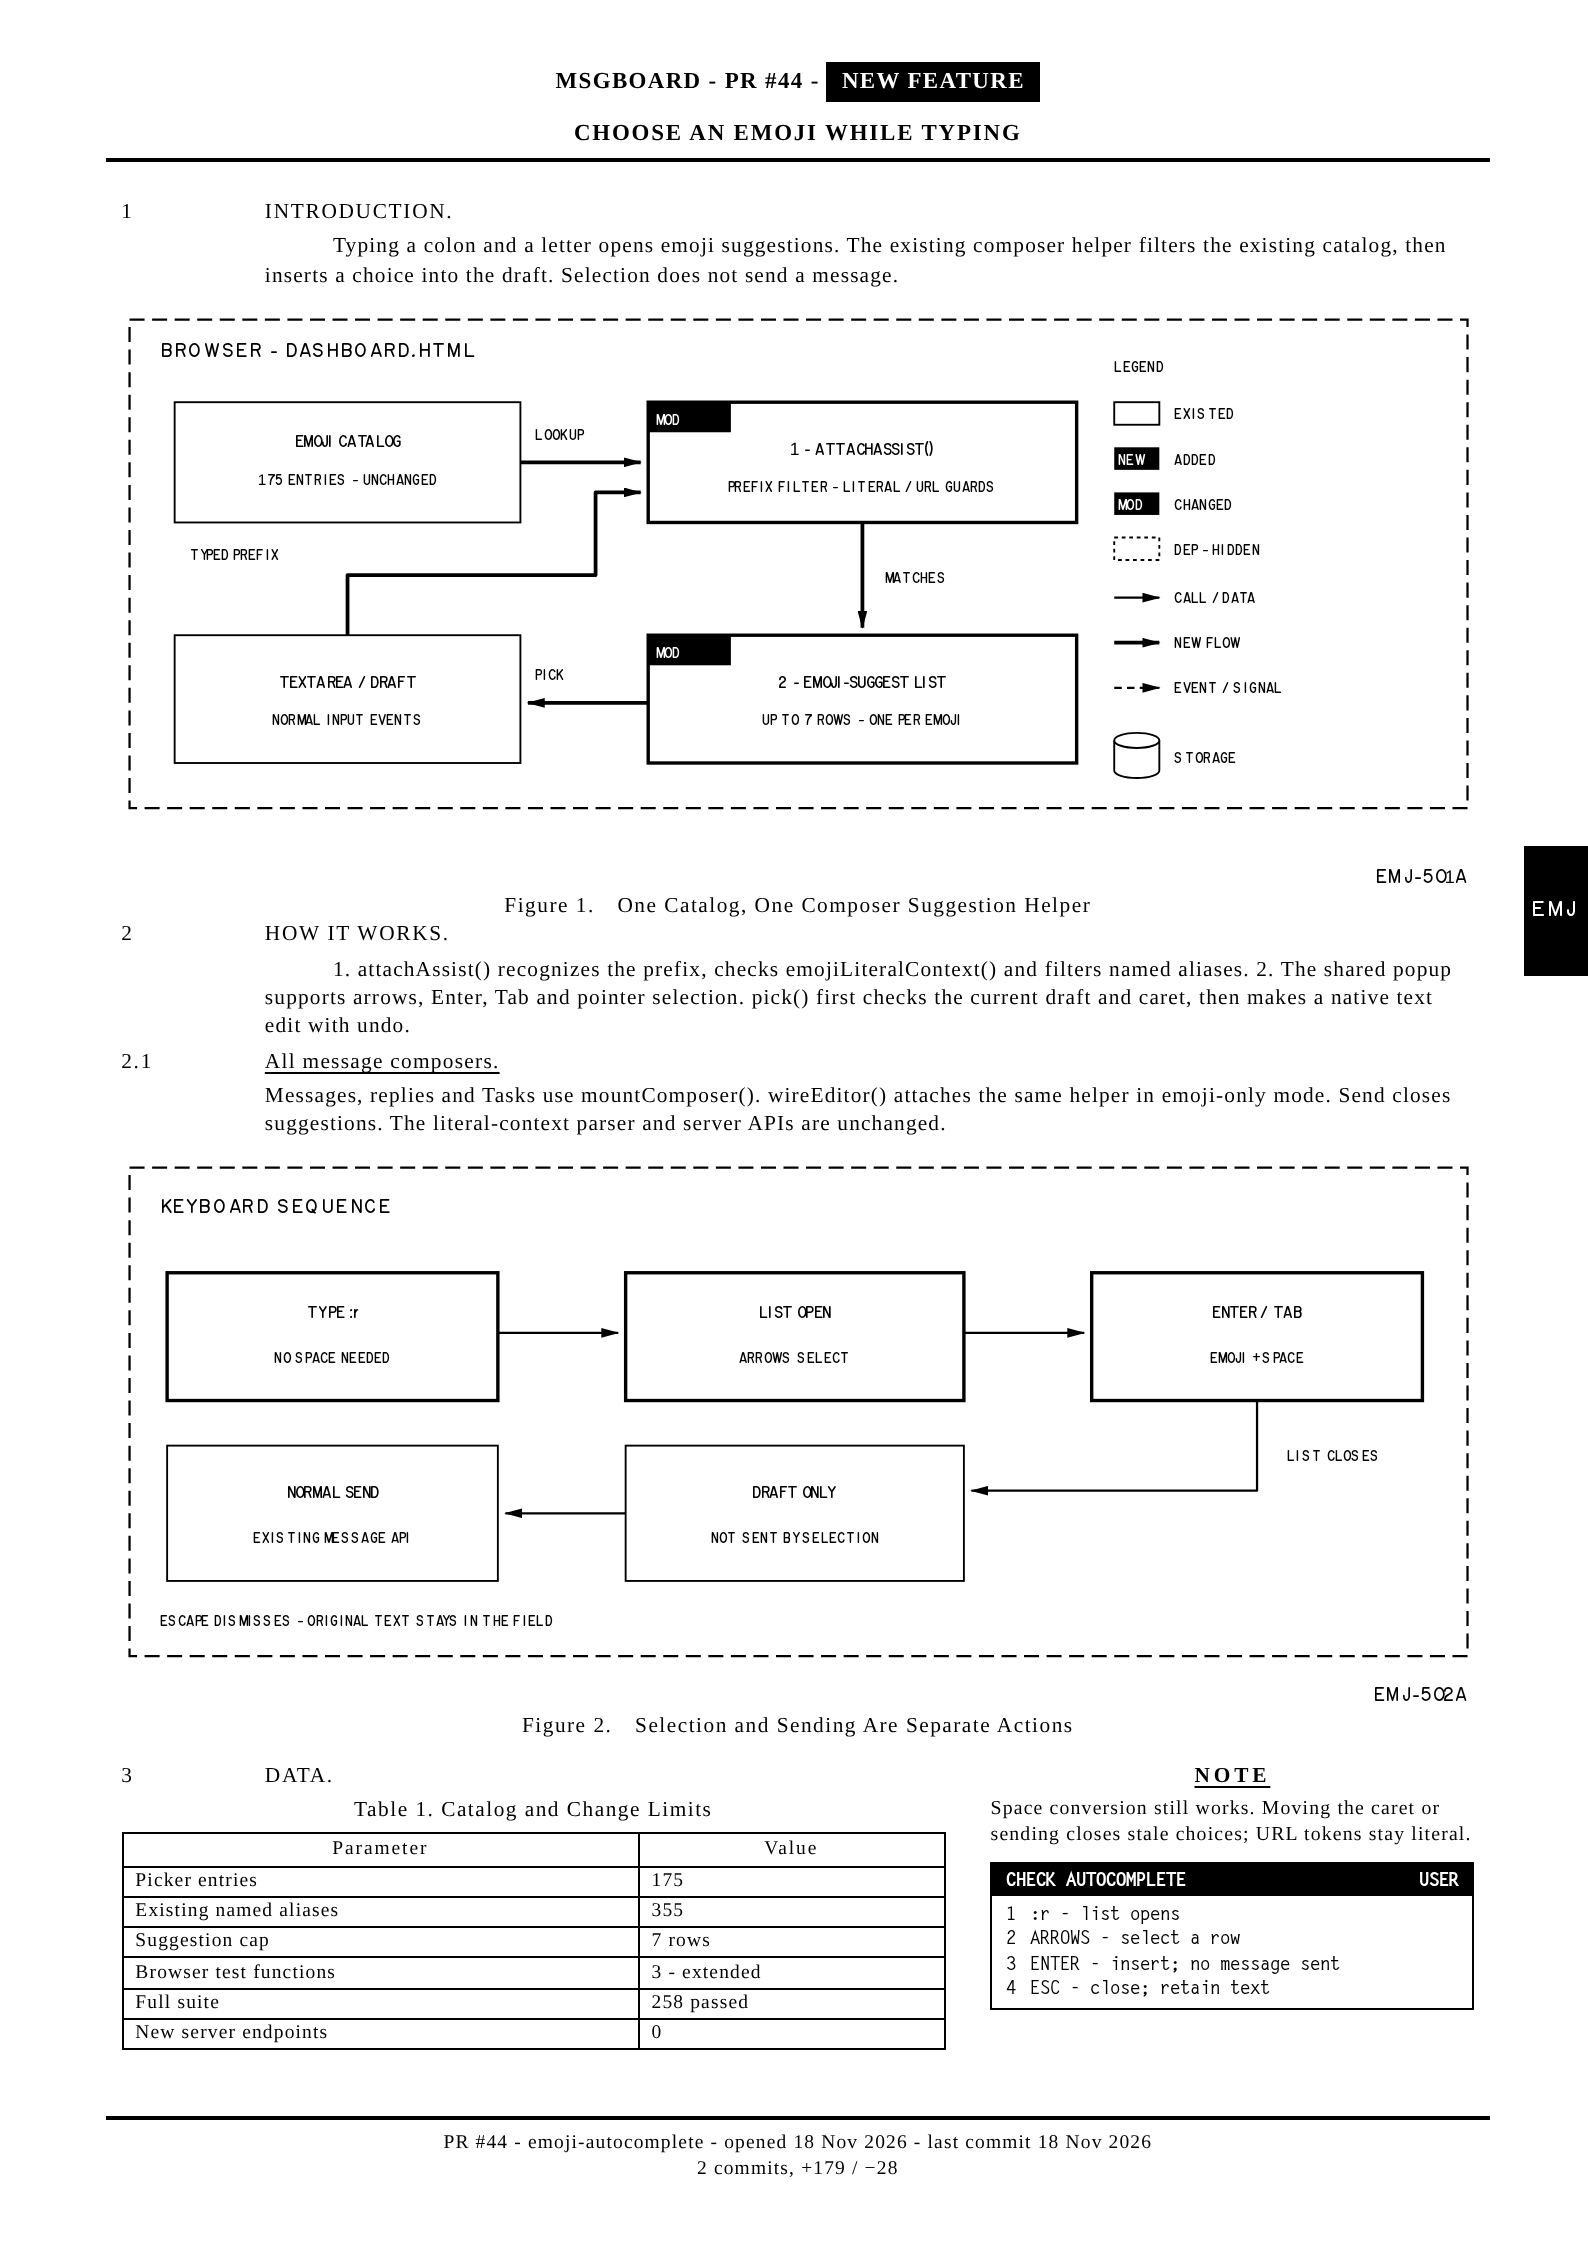
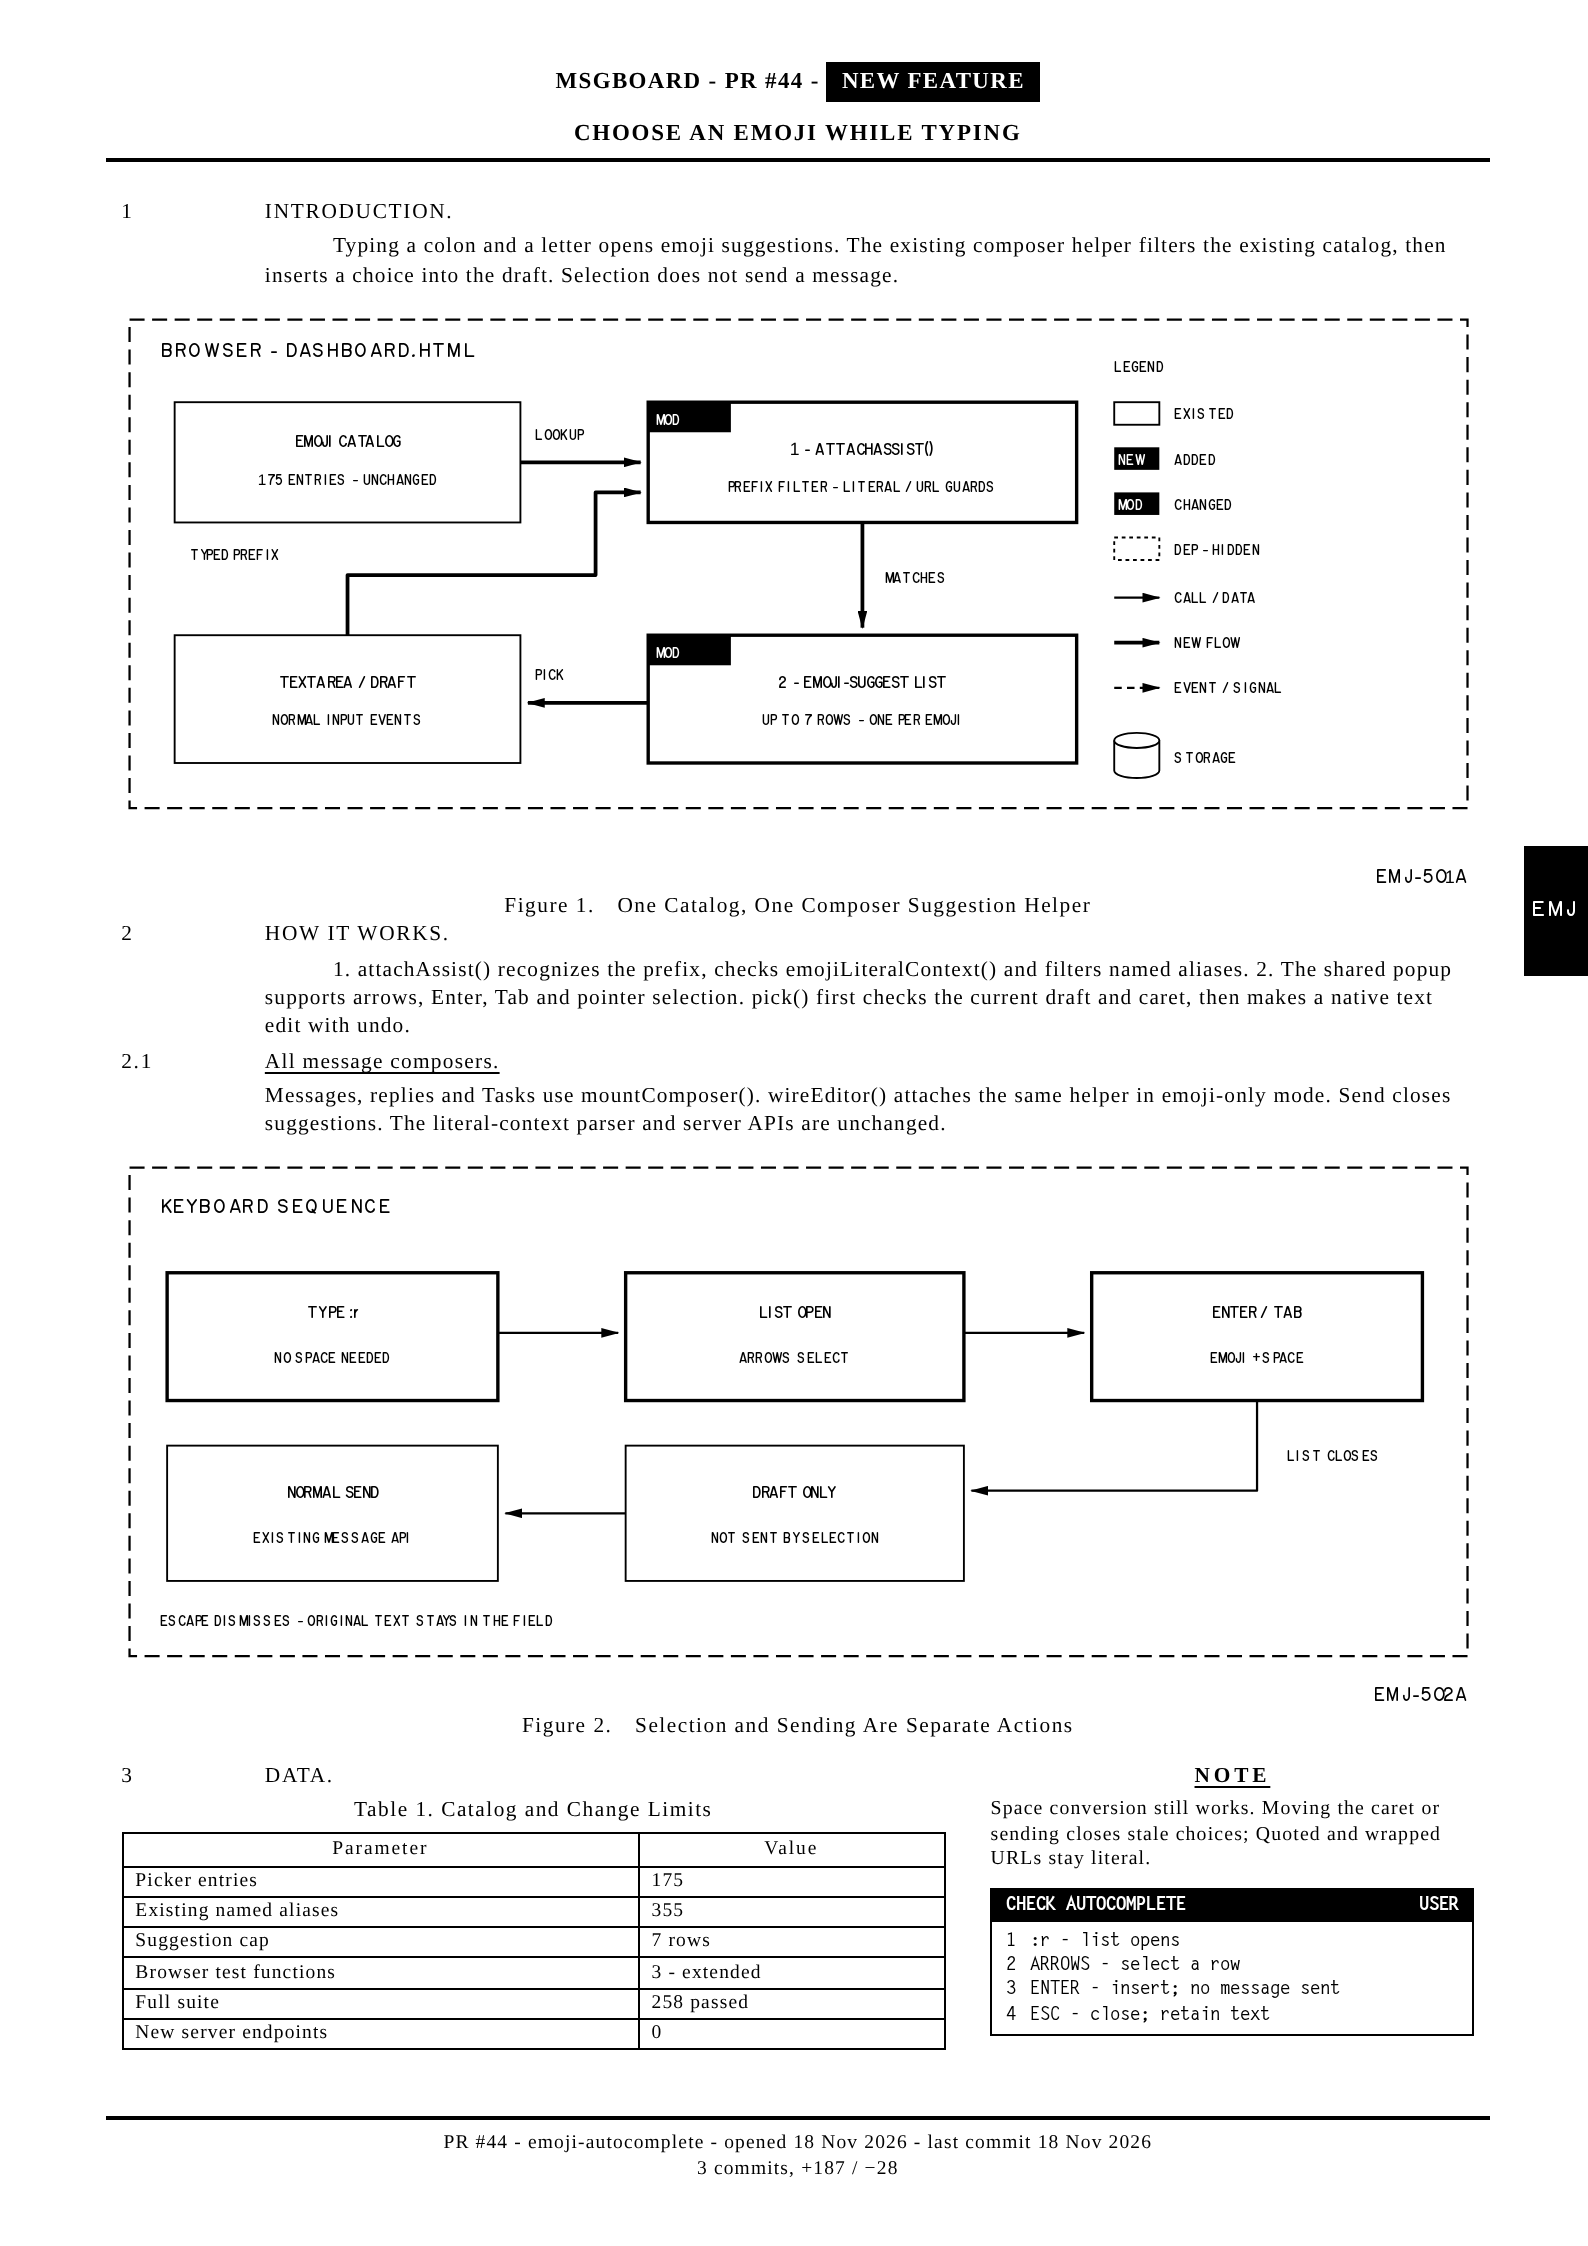
Document wrapped URL completion regression and fix

Changed region(s): [[0.6171, 0.8103, 0.9257, 0.9038]]

diff --git a/emoji-autocomplete/pr-44.html b/emoji-autocomplete/pr-44.html
@@ -171,8 +171,8 @@
 <rect x="67" y="38" width="45" height="18" fill="white" stroke="black" stroke-width=".25"/><text class="lbl" x="89.5" y="45" text-anchor="middle">DRAFT ONLY</text><text class="lbl-s" x="89.5" y="51" text-anchor="middle">NOT SENT BY SELECTION</text>
 <path class="wa" d="M67 47 H51"/><rect x="6" y="38" width="44" height="18" fill="white" stroke="black" stroke-width=".25"/><text class="lbl" x="28" y="45" text-anchor="middle">NORMAL SEND</text><text class="lbl-s" x="28" y="51" text-anchor="middle">EXISTING MESSAGE API</text><text class="lbl-s" x="5" y="62">ESCAPE DISMISSES - ORIGINAL TEXT STAYS IN THE FIELD</text>
 <text class="code" x="179" y="72" text-anchor="end">EMJ-502A</text></svg><figcaption><span class="n">Figure 2.</span>Selection and Sending Are Separate Actions</figcaption></figure>
-<div class="lower"><div><section class="para"><div class="num">3</div><div><h2>DATA.</h2></div></section><div class="tcap">Table 1. Catalog and Change Limits</div><table><thead><tr><th>Parameter</th><th>Value</th></tr></thead><tbody><tr><td>Picker entries</td><td class="v">175</td></tr><tr><td>Existing named aliases</td><td class="v">355</td></tr><tr><td>Suggestion cap</td><td class="v">7 rows</td></tr><tr><td>Browser test functions</td><td class="v">3 - extended</td></tr><tr><td>Full suite</td><td class="v">258 passed</td></tr><tr><td>New server endpoints</td><td class="v">0</td></tr></tbody></table></div><div><div class="notice"><span class="tag">NOTE</span><p>Space conversion still works. Moving the caret or sending closes stale choices; URL tokens stay literal.</p></div><div class="card"><div class="bar"><span>CHECK AUTOCOMPLETE</span><span>USER</span></div><ol><li><span>1</span><span>:r - list opens</span></li><li><span>2</span><span>ARROWS - select a row</span></li><li><span>3</span><span>ENTER - insert; no message sent</span></li><li><span>4</span><span>ESC - close; retain text</span></li></ol></div></div></div>
-<footer class="foot"><div class="rule"></div><div style="text-align:center;font-size:7.3pt">PR #44 - emoji-autocomplete - opened 18 Nov 2026 - last commit 18 Nov 2026<br>2 commits, +179 / −28</div></footer></div><script>
+<div class="lower"><div><section class="para"><div class="num">3</div><div><h2>DATA.</h2></div></section><div class="tcap">Table 1. Catalog and Change Limits</div><table><thead><tr><th>Parameter</th><th>Value</th></tr></thead><tbody><tr><td>Picker entries</td><td class="v">175</td></tr><tr><td>Existing named aliases</td><td class="v">355</td></tr><tr><td>Suggestion cap</td><td class="v">7 rows</td></tr><tr><td>Browser test functions</td><td class="v">3 - extended</td></tr><tr><td>Full suite</td><td class="v">258 passed</td></tr><tr><td>New server endpoints</td><td class="v">0</td></tr></tbody></table></div><div><div class="notice"><span class="tag">NOTE</span><p>Space conversion still works. Moving the caret or sending closes stale choices; Quoted and wrapped URLs stay literal.</p></div><div class="card"><div class="bar"><span>CHECK AUTOCOMPLETE</span><span>USER</span></div><ol><li><span>1</span><span>:r - list opens</span></li><li><span>2</span><span>ARROWS - select a row</span></li><li><span>3</span><span>ENTER - insert; no message sent</span></li><li><span>4</span><span>ESC - close; retain text</span></li></ol></div></div></div>
+<footer class="foot"><div class="rule"></div><div style="text-align:center;font-size:7.3pt">PR #44 - emoji-autocomplete - opened 18 Nov 2026 - last commit 18 Nov 2026<br>3 commits, +187 / −28</div></footer></div><script>
   // Fit check: room left between the last content block and the footer.
   // .page hides overflow, so without this an overfull page fails silently.
   // render.sh prints the result from <html data-fit>.

diff --git a/emoji-autocomplete/make_diagram.py b/emoji-autocomplete/make_diagram.py
@@ -35,7 +35,7 @@ body=f'''<div class="page"><header class="head"><div class="doc">MSGBOARD - PR #
 <rect x="67" y="38" width="45" height="18" fill="white" stroke="black" stroke-width=".25"/><text class="lbl" x="89.5" y="45" text-anchor="middle">DRAFT ONLY</text><text class="lbl-s" x="89.5" y="51" text-anchor="middle">NOT SENT BY SELECTION</text>
 <path class="wa" d="M67 47 H51"/><rect x="6" y="38" width="44" height="18" fill="white" stroke="black" stroke-width=".25"/><text class="lbl" x="28" y="45" text-anchor="middle">NORMAL SEND</text><text class="lbl-s" x="28" y="51" text-anchor="middle">EXISTING MESSAGE API</text><text class="lbl-s" x="5" y="62">ESCAPE DISMISSES - ORIGINAL TEXT STAYS IN THE FIELD</text>
 <text class="code" x="179" y="72" text-anchor="end">EMJ-502A</text></svg><figcaption><span class="n">Figure 2.</span>Selection and Sending Are Separate Actions</figcaption></figure>
-<div class="lower"><div><section class="para"><div class="num">3</div><div><h2>DATA.</h2></div></section><div class="tcap">Table 1. Catalog and Change Limits</div><table><thead><tr><th>Parameter</th><th>Value</th></tr></thead><tbody><tr><td>Picker entries</td><td class="v">175</td></tr><tr><td>Existing named aliases</td><td class="v">355</td></tr><tr><td>Suggestion cap</td><td class="v">7 rows</td></tr><tr><td>Browser test functions</td><td class="v">3 - extended</td></tr><tr><td>Full suite</td><td class="v">258 passed</td></tr><tr><td>New server endpoints</td><td class="v">0</td></tr></tbody></table></div><div><div class="notice"><span class="tag">NOTE</span><p>Space conversion still works. Moving the caret or sending closes stale choices; URL tokens stay literal.</p></div><div class="card"><div class="bar"><span>CHECK AUTOCOMPLETE</span><span>USER</span></div><ol><li><span>1</span><span>:r - list opens</span></li><li><span>2</span><span>ARROWS - select a row</span></li><li><span>3</span><span>ENTER - insert; no message sent</span></li><li><span>4</span><span>ESC - close; retain text</span></li></ol></div></div></div>
+<div class="lower"><div><section class="para"><div class="num">3</div><div><h2>DATA.</h2></div></section><div class="tcap">Table 1. Catalog and Change Limits</div><table><thead><tr><th>Parameter</th><th>Value</th></tr></thead><tbody><tr><td>Picker entries</td><td class="v">175</td></tr><tr><td>Existing named aliases</td><td class="v">355</td></tr><tr><td>Suggestion cap</td><td class="v">7 rows</td></tr><tr><td>Browser test functions</td><td class="v">3 - extended</td></tr><tr><td>Full suite</td><td class="v">258 passed</td></tr><tr><td>New server endpoints</td><td class="v">0</td></tr></tbody></table></div><div><div class="notice"><span class="tag">NOTE</span><p>Space conversion still works. Moving the caret or sending closes stale choices; Quoted and wrapped URLs stay literal.</p></div><div class="card"><div class="bar"><span>CHECK AUTOCOMPLETE</span><span>USER</span></div><ol><li><span>1</span><span>:r - list opens</span></li><li><span>2</span><span>ARROWS - select a row</span></li><li><span>3</span><span>ENTER - insert; no message sent</span></li><li><span>4</span><span>ESC - close; retain text</span></li></ol></div></div></div>
 <footer class="foot"><div class="rule"></div><div style="text-align:center;font-size:7.3pt">PR #{n} - emoji-autocomplete - opened 18 Nov 2026 - last commit 18 Nov 2026<br>{len(meta['commits'])} commits, +{meta['additions']} / −{meta['deletions']}</div></footer></div>'''
 script=base[base.rindex('<script>'):]
 (OUT/f'pr-{n}.html').write_text(head+body+script)
